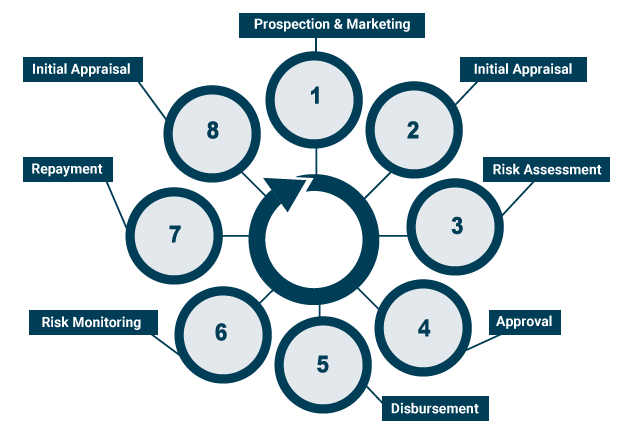
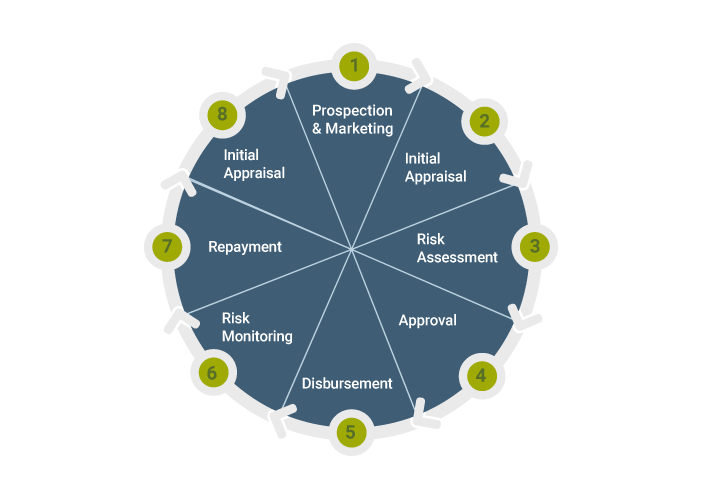
Modulo Servicio 1 100%

diff --git a/index.html b/index.html
@@ -263,8 +263,8 @@
              <h1>Risk Management</h1>
              <p>Cyrano’s risk assessment methodology is designed specifically for the Social Banking industry:
 </p>
-<!--
-<div class="grafico4a"><img src="images/circulo-interseccion.png"></div>-->
+
+<div class="grafico4a"><img src="images/circulo-interseccion.png"></div>
  <div class="cont-riskmanagement">
 <div class="columna-flot-mod">
 <h2>Market Risk</h2>

diff --git a/estilos.css b/estilos.css
@@ -579,7 +579,7 @@ padding: 5px 10px 10px 50px;
 }
 
 .grafico4a{
-	max-width: 50%;
+	max-width: 100%;
 	margin: 50px auto;
 }
 
